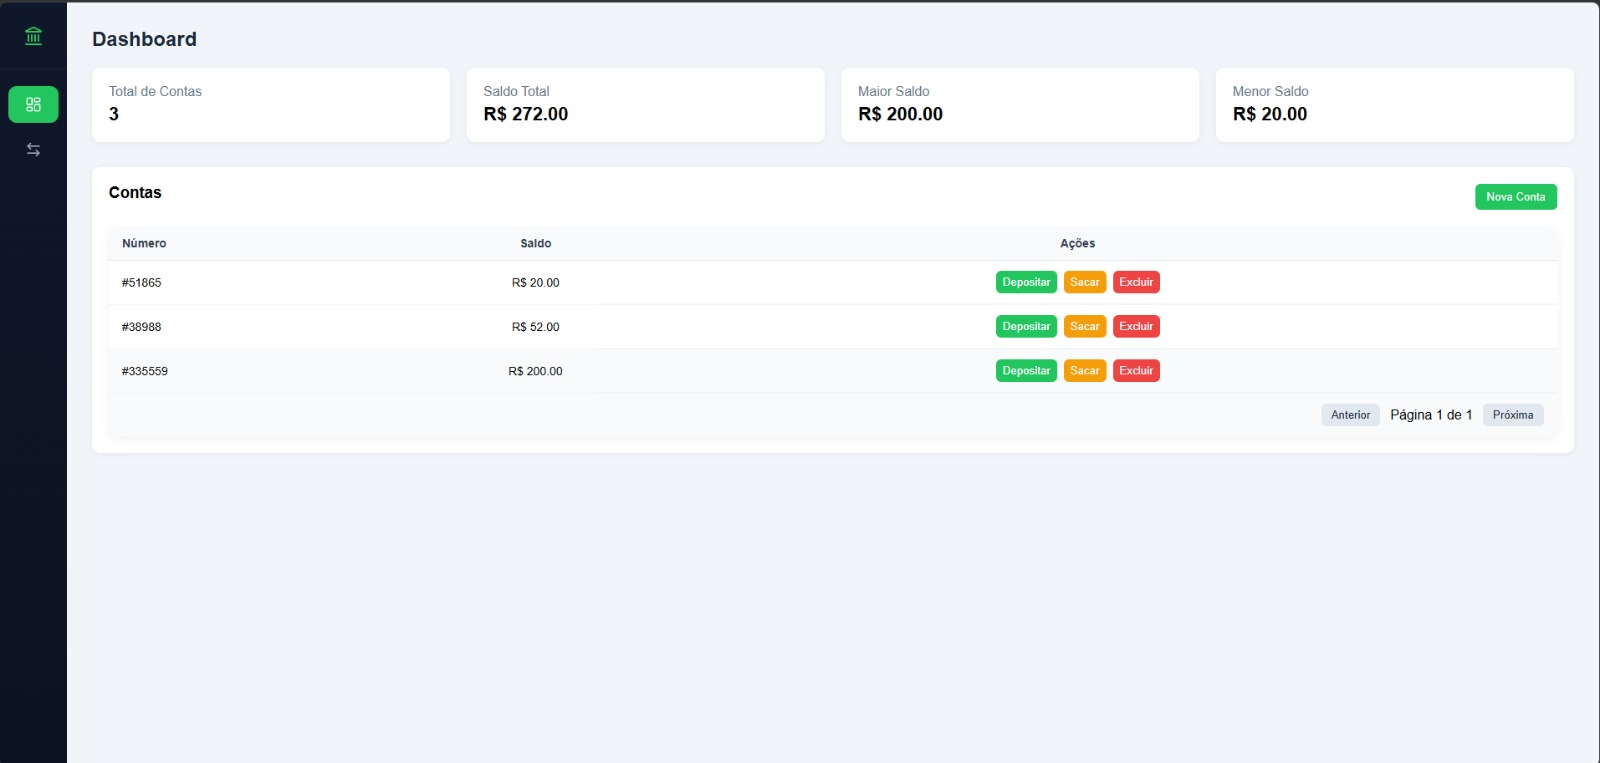
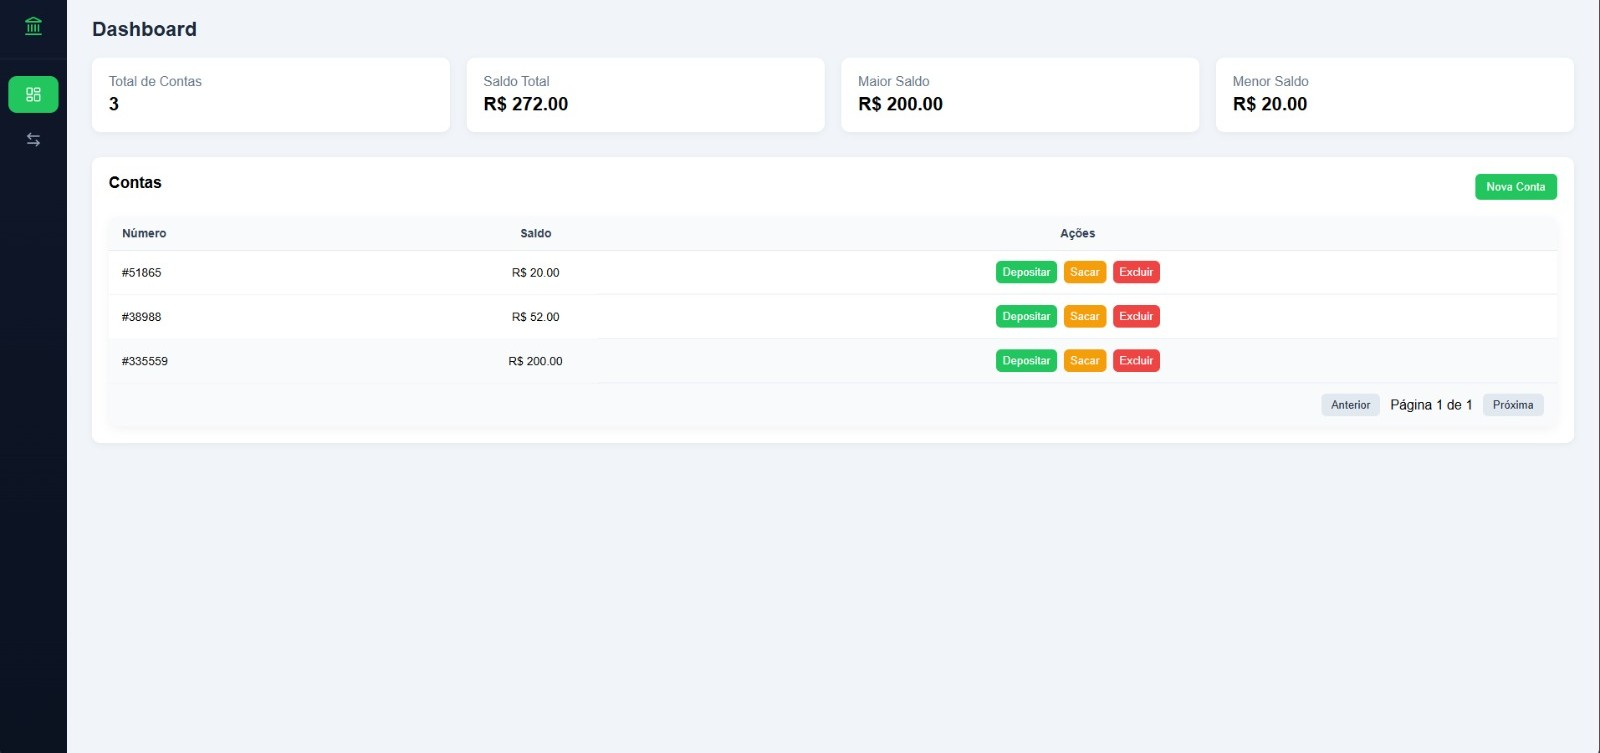
style: enhance project image layout and centering for better presentation

diff --git a/styles.css b/styles.css
@@ -671,7 +671,11 @@ background-color: rgba(107, 114, 128, 0.2);
     aspect-ratio: 21 / 10;
     background-color: var(--background-alt);
     border-bottom: 1px solid var(--border-color);
+    display: flex;
+    align-items: center;
+    justify-content: center;
     overflow: hidden;
+    padding: 0.5rem;
 }
 
 .project-image img {
@@ -679,7 +683,7 @@ background-color: rgba(107, 114, 128, 0.2);
     width: 100%;
     height: 100%;
     object-fit: contain;
-    object-position: top center;
+    object-position: center;
 }
 
 .projects .card-content {
